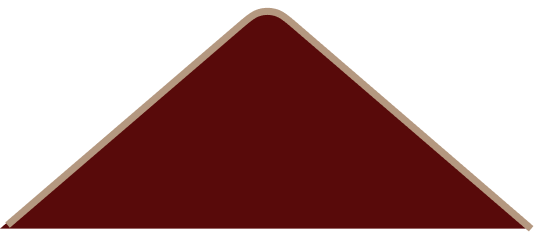
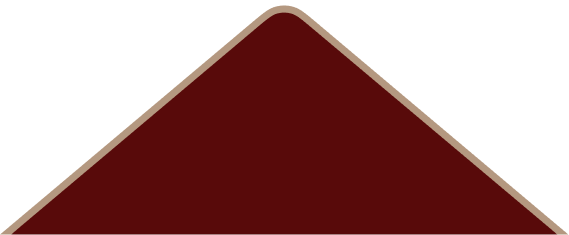
better flap closing

diff --git a/src/components/EnvelopeFooter.tsx b/src/components/EnvelopeFooter.tsx
@@ -84,7 +84,7 @@ export default function EnvelopeFooter() {
       gsap.set(outsideFlap, {
         opacity: 0,
         rotateX: -90,
-        y: -190,
+        y: -185,
         scale: 0.80,
         z: 1,
       });
@@ -173,6 +173,7 @@ export default function EnvelopeFooter() {
           y: -185,
           scale: 0.80,
           z: 1,
+
         },
         3.5
       );
@@ -191,6 +192,7 @@ export default function EnvelopeFooter() {
           ease: 'power2.inOut',
           x: -5,
           y: '25%',
+
           z: 1.1,
         },
         6
@@ -217,6 +219,8 @@ export default function EnvelopeFooter() {
           rotateX: -90,
           duration: 1.5,
           ease: 'power2.inOut',
+          scale: 0.80,
+          
         },
         8.5
       );
@@ -234,6 +238,8 @@ export default function EnvelopeFooter() {
           rotateX: -180,
           duration: 1.5,
           ease: 'power2.inOut',
+          scale: 0.80,
+          y: -190,
         },
         10
       );
